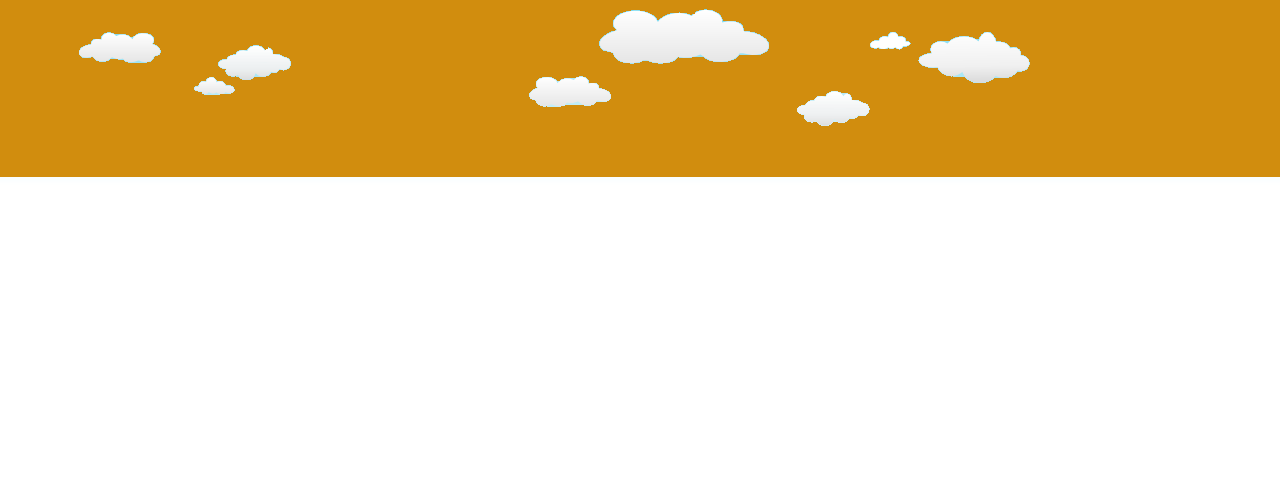
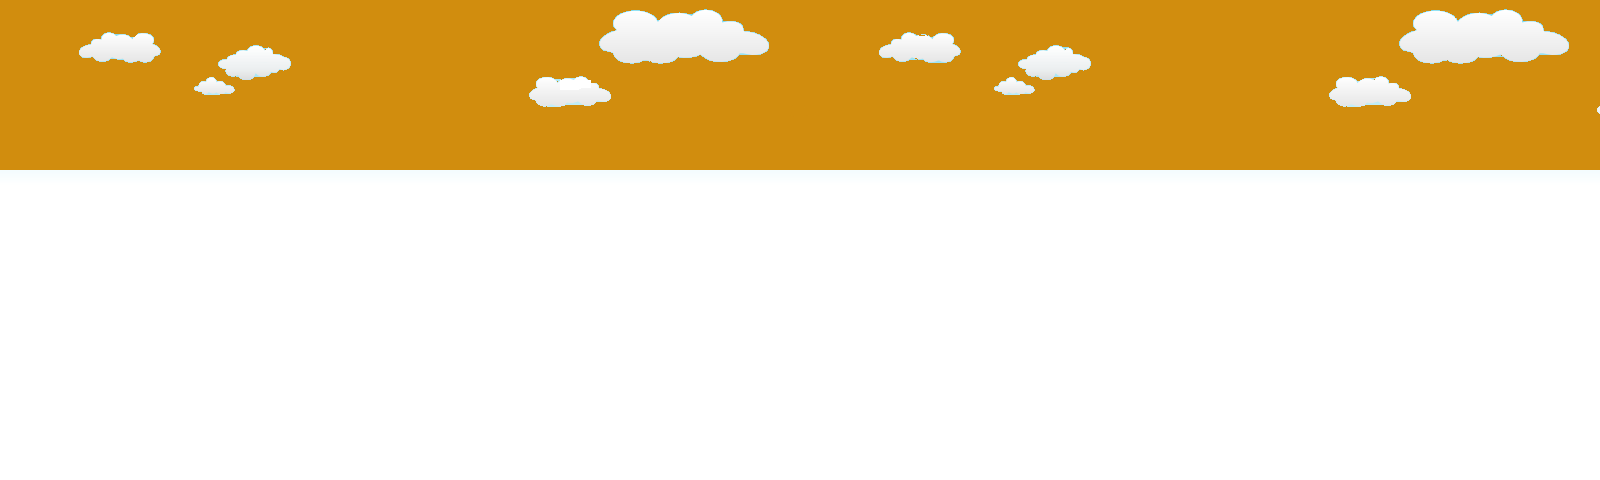
fix parallax del cielo y correccion ancho fondos de los niveles de tarde y noche

diff --git a/TP2/tallerProgramacion/Escenario.cpp b/TP2/tallerProgramacion/Escenario.cpp
@@ -43,8 +43,8 @@ Escenario::~Escenario() {
 }
 
 void Escenario::update(Unidad deltaTiempo) {
-	/*	gPromptTextTexture->loadFromRenderedText(this->mensaje, textColor);
-	gPromptTextTexture->render(SCREEN_WIDTH - WIDTH, 0);
+	//	gPromptTextTexture->loadFromRenderedText(this->mensaje, textColor);
+	//gPromptTextTexture->render(SCREEN_WIDTH - WIDTH, 0);
 	if (limiteImagenCielo())
 		posicionCielo.setX((int(posicionCielo.getX() + VELOCIDAD_CIELO * deltaTiempo)));
 	else
@@ -54,7 +54,6 @@ void Escenario::update(Unidad deltaTiempo) {
 	else
 		posicionColinas.setX(0);
 	//posicionColinas.setX((int(posicionColinas.getX() + VELOCIDAD_COLINAS * deltaTiempo)) % colinas->getAncho());
-	*/
 }
 void Escenario::setPosicionCielo(int x, int y){
 	while (x > 0) {
